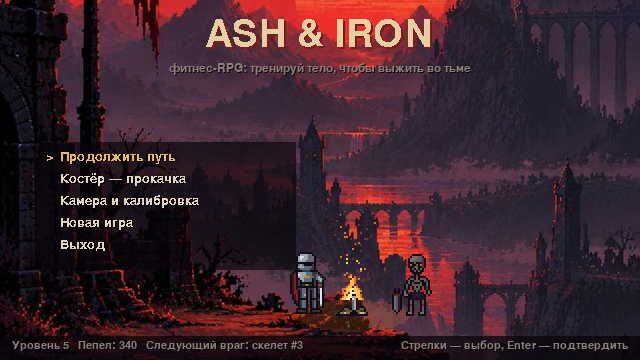
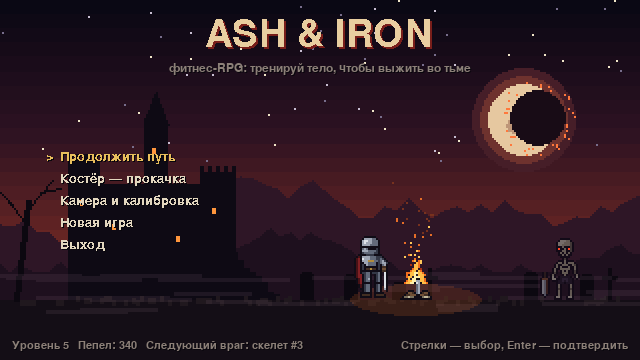
Restore the pixel-art menu background, drop the user artwork
Undo the backdrop part of 3abd525: main menu and bonfire draw the
procedural title background again (knight, bonfire and skeleton back on
the original ground line), menu_source.jpg / menu_bg.png and
tools/make_menu_bg.py are removed. The «пепел» currency rename from the
same commit is kept. Service worker cache bumped to v4.

Claude-Session: https://claude.ai/code/session_011mW4u7Ce1C3wwPLST6Z2ZA

diff --git a/fitness_rpg/web/js/game.js b/fitness_rpg/web/js/game.js
@@ -8,7 +8,7 @@ import { initAudio, sfx } from "./sfx.js";
 
 const CW = 320, CH = 180;
 const W = 640, GAME_H = 360;
-const GROUND_TITLE = 158, GROUND_ARENA = 140; // 158 — каменный уступ на фоне меню (assets/menu_bg.png)
+const GROUND_TITLE = 150, GROUND_ARENA = 140;
 const FONT = '"PressStart2P", monospace';
 
 const COL = {
@@ -17,7 +17,7 @@ const COL = {
 };
 
 const SPRITES = [
-  "menu_bg", "arena_bg", "skeleton_dark_0", "hero_dead_0",
+  "title_bg", "arena_bg", "skeleton_dark_0", "hero_dead_0",
   "hero_idle_0", "hero_idle_1", "hero_attack_0", "hero_dodge_0", "hero_hurt_0", "hero_heal_0",
   "skeleton_idle_0", "skeleton_idle_1", "skeleton_windup_0", "skeleton_windup_1",
   "skeleton_attack_0", "skeleton_hurt_0", "skeleton_dead_0",
@@ -234,7 +234,8 @@ class Game {
 
     const w = this.wctx;
     w.imageSmoothingEnabled = false;
-    w.clearRect(0, 0, CW, CH); // прозрачный мир: сцена может подложить фон в полном разрешении
+    w.fillStyle = "#000";
+    w.fillRect(0, 0, CW, CH);
     this.scene.draw(w);
 
     const c = this.ctx;
@@ -247,7 +248,6 @@ class Game {
       ox = Math.round(rand(-2, 2)) * 2;
       oy = Math.round(rand(-2, 2)) * 2;
     }
-    this.scene.drawBackdrop();
     c.drawImage(this.world, ox, oy, W, GAME_H);
     this.scene.drawUi();
     if (this.portrait) {
@@ -266,7 +266,6 @@ class Scene {
   }
   handle(moves) {}
   update(dt) {}
-  drawBackdrop() {} // фон 640×360 под пиксельным миром (по умолчанию нет)
   draw(c) {}
   drawUi() {}
 }
@@ -275,7 +274,7 @@ class Scene {
 class TitleScene extends Scene {
   constructor(game) {
     super(game);
-    this.embers = new Particles(176, 140, 22);
+    this.embers = new Particles(208, 132, 22);
     this.index = 0;
     const g = game;
     this.items = [
@@ -317,20 +316,17 @@ class TitleScene extends Scene {
     this.embers.update(dt);
     this.confirmT -= dt;
   }
-  drawBackdrop() {
-    this.game.ctx.drawImage(IMG.menu_bg, 0, 0, W, GAME_H);
-  }
   draw(c) {
     const t = this.game.time;
-    const r = 30 + Math.round(Math.sin(t * 6) * 2);
-    c.fillStyle = "rgba(255,120,40,0.19)";
+    c.drawImage(IMG.title_bg, 0, 0);
+    const r = 34 + Math.round(Math.sin(t * 6) * 2);
+    c.fillStyle = "rgba(255,120,40,0.16)";
     c.beginPath();
-    c.ellipse(176, GROUND_TITLE - 2, r, 8, 0, 0, Math.PI * 2);
+    c.ellipse(208, GROUND_TITLE - 2, r, 8, 0, 0, Math.PI * 2);
     c.fill();
-    c.drawImage(anim("bonfire", t, 8, 4), 168, GROUND_TITLE - 22);
-    c.drawImage(anim("hero_idle", t, 1.5, 2), 140, GROUND_TITLE - 32);
-    // скелет крадётся из тьмы у края уступа — глаза мерцают
-    const sx = 196, sy = GROUND_TITLE - 32;
+    c.drawImage(anim("bonfire", t, 8, 4), 200, GROUND_TITLE - 22);
+    c.drawImage(anim("hero_idle", t, 1.5, 2), 172, GROUND_TITLE - 32);
+    const sx = 270, sy = GROUND_TITLE - 32;
     c.drawImage(IMG.skeleton_dark_0, sx, sy);
     if (Math.floor(t * 1.3) % 5 !== 0) {
       c.fillStyle = "rgb(255,70,40)";
@@ -343,8 +339,7 @@ class TitleScene extends Scene {
     const g = this.game, p = g.player;
     g.text("ASH & IRON", W / 2 + 3, 19, 40, "rgb(120,30,26)", "center", false);
     g.text("ASH & IRON", W / 2, 16, 40, "rgb(232,206,160)", "center", false);
-    g.text("фитнес-RPG: тренируй тело, чтобы выжить во тьме", W / 2, 66, 8, COL.text, "center");
-    g.rect([0, GAME_H - 24, W, 24], "rgba(8,4,10,0.72)"); // плашка под строкой состояния
+    g.text("фитнес-RPG: тренируй тело, чтобы выжить во тьме", W / 2, 66, 8, COL.dim, "center");
     this.rects().forEach((r, i) => {
       const confirm = i === 3 && this.confirmT > 0;
       g.button(r, confirm ? "Стереть? Ещё раз" : this.items[i][0], { selected: i === this.index, color: confirm ? COL.red : undefined });
@@ -355,12 +350,11 @@ class TitleScene extends Scene {
 }
 
 // ------------------------------------------------------------------ Костёр
-const RITUAL_CANCEL = [166 - 70, GAME_H - 26, 140, 22];
 class BonfireScene extends Scene {
   constructor(game) {
     super(game);
     this.manual = true;
-    this.embers = new Particles(208, 124, 26);
+    this.embers = new Particles(216, 116, 26);
     this.ritual = null; // {stat, ex, need, done}
     this.say("Костёр зажжён. Здоровье и эстус восстановлены.");
     this.index = 0;
@@ -381,7 +375,7 @@ class BonfireScene extends Scene {
   handle(moves) {
     const g = this.game, p = g.player;
     if (this.ritual) {
-      if (g.key("Escape") || g.tapped(RITUAL_CANCEL)) {
+      if (g.key("Escape") || g.tapped([W / 2 - 70, GAME_H - 26, 140, 22])) {
         this.ritual = null;
         return this.say("Ритуал прерван. Пепел не потрачен.");
       }
@@ -425,22 +419,19 @@ class BonfireScene extends Scene {
     this.embers.rate += (26 - this.embers.rate) * Math.min(1, dt * 1.5);
     this.msgT -= dt;
   }
-  drawBackdrop() {
-    const c = this.game.ctx;
-    c.drawImage(IMG.menu_bg, 0, 0, W, GAME_H);
-    c.fillStyle = "rgba(0,0,0,0.43)";
-    c.fillRect(0, 0, W, GAME_H);
-  }
   draw(c) {
     const t = this.game.time;
+    c.drawImage(IMG.title_bg, 0, 0);
+    c.fillStyle = "rgba(0,0,0,0.47)";
+    c.fillRect(0, 0, CW, CH);
     const r = 46 + Math.round(Math.sin(t * 5) * 3);
     c.fillStyle = "rgba(255,120,40,0.2)";
     c.beginPath();
-    c.ellipse(208, GROUND_TITLE - 4, r, 12, 0, 0, Math.PI * 2);
+    c.ellipse(216, GROUND_TITLE - 4, r, 12, 0, 0, Math.PI * 2);
     c.fill();
-    c.drawImage(anim("bonfire", t, 8, 4), 192, GROUND_TITLE - 44, 32, 44);
+    c.drawImage(anim("bonfire", t, 8, 4), 200, GROUND_TITLE - 44, 32, 44);
     const hero = this.ritual && this.ritual.done % 2 ? IMG.hero_attack_0 : IMG.hero_idle_0;
-    c.drawImage(hero, 164, GROUND_TITLE - 32);
+    c.drawImage(hero, 168, GROUND_TITLE - 32);
     this.embers.draw(c);
   }
   drawUi() {
@@ -471,13 +462,11 @@ class BonfireScene extends Scene {
 
     if (this.ritual) {
       const { stat, ex, need, done } = this.ritual;
-      // плашка ритуала — только в левой колонке, чтобы рыцарь у костра оставался виден
-      const cx = 166;
-      g.rect([0, GAME_H - 84, 332, 84], "rgba(0,0,0,0.85)");
-      g.text(`Ритуал: ${STATS[stat][0]}`, cx, GAME_H - 78, 8, COL.dim, "center");
-      g.text(`${NAMES[ex]}: ${done} / ${need}`, cx, GAME_H - 64, 16, COL.gold, "center");
-      g.bar(cx - 140, GAME_H - 40, 280, 8, done / need, "rgb(230,140,50)");
-      g.button(RITUAL_CANCEL, "ПРЕРВАТЬ");
+      g.rect([0, GAME_H - 84, W, 84], "rgba(0,0,0,0.85)");
+      g.text(`Ритуал: ${STATS[stat][0]}`, W / 2, GAME_H - 78, 8, COL.dim, "center");
+      g.text(`${NAMES[ex]}: ${done} / ${need}`, W / 2, GAME_H - 64, 16, COL.gold, "center");
+      g.bar(W / 2 - 150, GAME_H - 40, 300, 8, done / need, "rgb(230,140,50)");
+      g.button([W / 2 - 70, GAME_H - 26, 140, 22], "ПРЕРВАТЬ");
     } else if (this.msgT > 0) {
       g.wrap(this.message, 76).forEach((l, i) => g.text(l, W / 2, GAME_H - 36 + i * 12, 8, COL.gold, "center"));
     }

diff --git a/fitness_rpg/web/sw.js b/fitness_rpg/web/sw.js
@@ -1,5 +1,5 @@
 // Офлайн-кэш: после первого запуска с сетью игра открывается и без интернета.
-const CACHE = "ash-and-iron-v3";
+const CACHE = "ash-and-iron-v4";
 const CORE = [
   "./", "index.html", "style.css", "manifest.webmanifest",
   "js/game.js", "js/motion.js", "js/exercises.js", "js/player.js", "js/sfx.js",

diff --git a/fitness_rpg/game/scenes.py b/fitness_rpg/game/scenes.py
@@ -10,7 +10,7 @@ from .core import (COL_DIM, COL_GOLD, COL_GREEN, COL_RED, COL_SHADOW, COL_TEXT,
 from .exercises import NAMES
 from .player import ESTUS_MAX, STATS, Player
 
-GROUND_TITLE = 158   # каменный уступ на фоне главного меню (assets/menu_bg.png)
+GROUND_TITLE = 150
 GROUND_ARENA = 140
 
 MOVE_HINTS = [
@@ -55,7 +55,7 @@ class TitleScene(Scene):
     def __init__(self, game):
         super().__init__(game)
         g = game
-        self.embers = Particles(176, 140, rate=22)
+        self.embers = Particles(208, 132, rate=22)
         self.skel_dark = tinted(g.art.skeleton["idle"][0], (20, 10, 24), 0.55)
         self.menu = Menu([
             ("Продолжить путь", lambda: g.change(BattleScene(g))),
@@ -90,20 +90,18 @@ class TitleScene(Scene):
             if self.confirm_t <= 0:
                 self.menu.items[3] = ("Новая игра", self.new_game)
 
-    def draw_backdrop(self, screen):
-        screen.blit(self.game.art.menu_bg, (0, 0))
-
     def draw(self, c):
         a, t = self.game.art, self.game.time
-        # отблеск костра на камнях уступа
+        c.blit(a.title_bg, (0, 0))
+        # отблеск костра на земле
         glow = pygame.Surface((80, 20), pygame.SRCALPHA)
-        r = 30 + int(math.sin(t * 6) * 2)
-        pygame.draw.ellipse(glow, (255, 120, 40, 48), (40 - r, 2, r * 2, 16))
-        c.blit(glow, (136, GROUND_TITLE - 10))
-        c.blit(anim(a.bonfire, t, 8), (168, GROUND_TITLE - 22))
-        c.blit(anim(a.hero["idle"], t, 1.5), (140, GROUND_TITLE - 32))
-        # скелет крадётся из тьмы у края уступа — глаза мерцают
-        sx, sy = 196, GROUND_TITLE - 32
+        r = 34 + int(math.sin(t * 6) * 2)
+        pygame.draw.ellipse(glow, (255, 120, 40, 40), (40 - r, 2, r * 2, 16))
+        c.blit(glow, (168, GROUND_TITLE - 10))
+        c.blit(anim(a.bonfire, t, 8), (200, GROUND_TITLE - 22))
+        c.blit(anim(a.hero["idle"], t, 1.5), (172, GROUND_TITLE - 32))
+        # скелет крадётся из тьмы — глаза мерцают
+        sx, sy = 270, GROUND_TITLE - 32
         c.blit(self.skel_dark, (sx, sy))
         if int(t * 1.3) % 5 != 0:
             for ex in (9, 14):
@@ -115,13 +113,6 @@ class TitleScene(Scene):
         g.text(s, "ASH & IRON", (SCREEN_W // 2, 18), 56, (120, 30, 26), center=True, shadow=False)
         g.text(s, "ASH & IRON", (SCREEN_W // 2 - 2, 16), 56, (232, 206, 160), center=True, shadow=False)
         g.text(s, "фитнес-RPG: тренируй тело, чтобы выжить во тьме", (SCREEN_W // 2, 62), 18, COL_DIM, center=True)
-        # тёмные плашки, чтобы текст читался поверх детального фона
-        shade = pygame.Surface((262, 128), pygame.SRCALPHA)
-        shade.fill((8, 4, 10, 165))
-        s.blit(shade, (34, 142))
-        strip = pygame.Surface((SCREEN_W, 24), pygame.SRCALPHA)
-        strip.fill((8, 4, 10, 185))
-        s.blit(strip, (0, SCREEN_H - 24))
         self.menu.draw(g, s, 60, 150)
         p = g.player
         g.text(s, f"Уровень {p.level}   Пепел: {p.souls}   Следующий враг: скелет #{p.wave}",
@@ -136,7 +127,7 @@ class BonfireScene(Scene):
     def __init__(self, game):
         super().__init__(game)
         g = game
-        self.embers = Particles(208, 124, rate=26)
+        self.embers = Particles(216, 116, rate=26)
         self.ritual = None      # (stat, exercise, need, done)
         self.message, self.msg_t = "Костёр зажжён. Здоровье и эстус восстановлены.", 3.0
         game.run = None  # отдых у костра
@@ -187,22 +178,20 @@ class BonfireScene(Scene):
         self.embers.rate += (26 - self.embers.rate) * min(1.0, dt * 1.5)
         self.msg_t -= dt
 
-    def draw_backdrop(self, screen):
-        screen.blit(self.game.art.menu_bg, (0, 0))
-        dark = pygame.Surface(screen.get_size(), pygame.SRCALPHA)
-        dark.fill((0, 0, 0, 110))
-        screen.blit(dark, (0, 0))
-
     def draw(self, c):
         a, t = self.game.art, self.game.time
+        c.blit(a.title_bg, (0, 0))
+        dark = pygame.Surface(c.get_size(), pygame.SRCALPHA)
+        dark.fill((0, 0, 0, 120))
+        c.blit(dark, (0, 0))
         glow = pygame.Surface((120, 40), pygame.SRCALPHA)
         r = 46 + int(math.sin(t * 5) * 3)
         pygame.draw.ellipse(glow, (255, 120, 40, 50), (60 - r, 6, r * 2, 28))
-        c.blit(glow, (148, GROUND_TITLE - 24))
+        c.blit(glow, (156, GROUND_TITLE - 24))
         fire = pygame.transform.scale(anim(a.bonfire, t, 8), (32, 44))
-        c.blit(fire, (192, GROUND_TITLE - 44))
+        c.blit(fire, (200, GROUND_TITLE - 44))
         hero = a.hero["attack"][0] if self.ritual and self.ritual[3] % 2 else a.hero["idle"][0]
-        c.blit(hero, (164, GROUND_TITLE - 32))
+        c.blit(hero, (168, GROUND_TITLE - 32))
         self.embers.draw(c)
 
     def draw_ui(self, s):
@@ -245,14 +234,12 @@ class BonfireScene(Scene):
 
         if self.ritual:
             stat, ex, need, done = self.ritual
-            # плашка ритуала — только в левой колонке, чтобы рыцарь у костра оставался виден
-            cx = 166
-            box = pygame.Surface((332, 80), pygame.SRCALPHA)
-            box.fill((0, 0, 0, 215))
-            s.blit(box, (0, SCREEN_H - 80))
-            g.text(s, f"Ритуал: {STATS[stat][0]}   (Esc — прервать)", (cx, SCREEN_H - 74), 16, COL_DIM, center=True)
-            g.text(s, f"{NAMES[ex]}: {done} / {need}", (cx, SCREEN_H - 56), 36, COL_GOLD, center=True)
-            g.bar(s, (cx - 140, SCREEN_H - 18, 280, 8), done / need, (230, 140, 50))
+            box = pygame.Surface((SCREEN_W, 78), pygame.SRCALPHA)
+            box.fill((0, 0, 0, 210))
+            s.blit(box, (0, SCREEN_H - 78))
+            g.text(s, f"Ритуал: {STATS[stat][0]}   (Esc — прервать)", (SCREEN_W // 2, SCREEN_H - 72), 16, COL_DIM, center=True)
+            g.text(s, f"{NAMES[ex]}: {done} / {need}", (SCREEN_W // 2, SCREEN_H - 54), 36, COL_GOLD, center=True)
+            g.bar(s, (SCREEN_W // 2 - 150, SCREEN_H - 18, 300, 8), done / need, (230, 140, 50))
         elif self.msg_t > 0:
             g.text(s, self.message, (SCREEN_W // 2, SCREEN_H - 30), 18, COL_GOLD, center=True)
 

diff --git a/fitness_rpg/game/core.py b/fitness_rpg/game/core.py
@@ -57,9 +57,6 @@ class Scene:
     def update(self, dt):
         pass
 
-    def draw_backdrop(self, screen):
-        """Фон в разрешении экрана под пиксельным миром (по умолчанию нет)."""
-
     def draw(self, canvas):
         pass
 
@@ -72,8 +69,7 @@ class Game:
         pygame.init()
         pygame.display.set_caption("Ash & Iron — фитнес-RPG")
         self.screen = pygame.display.set_mode((SCREEN_W, SCREEN_H), pygame.SCALED | pygame.RESIZABLE)
-        # Прозрачный холст: сцена может подложить под пиксельный мир фон в полном разрешении
-        self.canvas = pygame.Surface((CANVAS_W, CANVAS_H), pygame.SRCALPHA)
+        self.canvas = pygame.Surface((CANVAS_W, CANVAS_H))
         self.clock = pygame.time.Clock()
         self.fonts = {}
         self.art = Art()
@@ -153,14 +149,13 @@ class Game:
         self.time += dt
         self.scene.handle(keys, moves)
         self.scene.update(dt)
-        self.canvas.fill((0, 0, 0, 0))
+        self.canvas.fill((0, 0, 0))
         self.scene.draw(self.canvas)
         ox = oy = 0
         if self.shake > 0:
             self.shake = max(0.0, self.shake - dt)
             ox, oy = random.randint(-2, 2), random.randint(-2, 2)
         self.screen.fill((0, 0, 0))
-        self.scene.draw_backdrop(self.screen)
         self.screen.blit(pygame.transform.scale(self.canvas, (SCREEN_W, SCREEN_H)), (ox * 2, oy * 2))
         self.scene.draw_ui(self.screen)
 

diff --git a/fitness_rpg/game/art.py b/fitness_rpg/game/art.py
@@ -5,7 +5,6 @@
 прямо в коде, а tools/generate_art.py выгружает его в PNG.
 """
 import math
-import os
 import random
 
 import pygame
@@ -403,17 +402,6 @@ def make_torch_frames(n=4):
     return frames
 
 
-MENU_BG_PATH = os.path.join(os.path.dirname(__file__), "..", "assets", "menu_bg.png")
-
-
-def load_menu_background(fallback):
-    """Фон главного меню и костра 640×360 (tools/make_menu_bg.py); без файла — процедурный фон ×2."""
-    try:
-        return pygame.image.load(MENU_BG_PATH).convert()
-    except (pygame.error, FileNotFoundError):
-        return pygame.transform.scale(fallback, (fallback.get_width() * 2, fallback.get_height() * 2))
-
-
 class Art:
     """Набор всех спрайтов игры, создаётся один раз после pygame.init()."""
 
@@ -440,4 +428,3 @@ class Art:
         self.torch = make_torch_frames()
         self.title_bg = make_title_background()
         self.arena_bg = make_arena_background()
-        self.menu_bg = load_menu_background(self.title_bg)

diff --git a/fitness_rpg/tools/export_web_assets.py b/fitness_rpg/tools/export_web_assets.py
@@ -34,7 +34,7 @@ def main():
         save(s, f"bonfire_{i}")
     for i, s in enumerate(a.torch):
         save(s, f"torch_{i}")
-    # фон меню (menu_bg.png) делает tools/make_menu_bg.py из assets/menu_source.jpg
+    save(a.title_bg, "title_bg")
     save(a.arena_bg, "arena_bg")
     save(art.tinted(a.skeleton["idle"][0], (20, 10, 24), 0.55), "skeleton_dark_0")
     save(art.tinted(a.hero["dodge"][0], (40, 10, 10), 0.6), "hero_dead_0")
